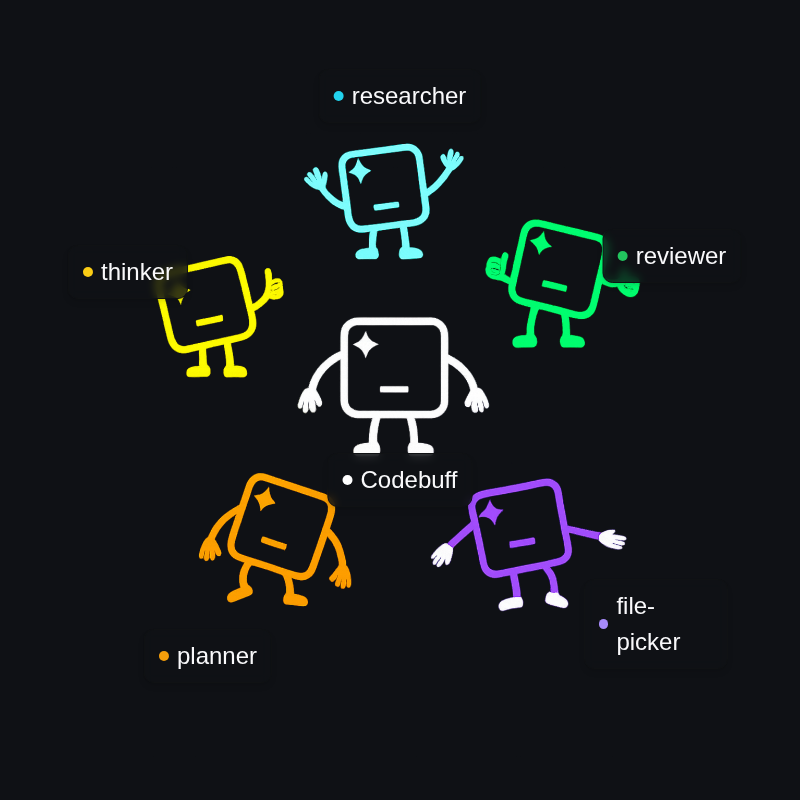
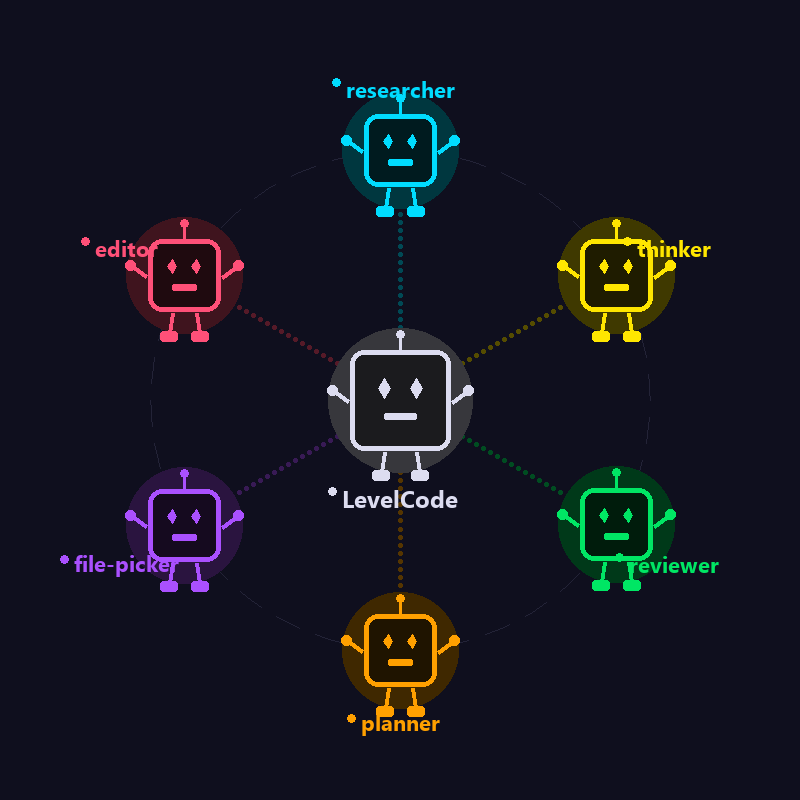
fix: replace old branding in multi-agents image with LevelCode
Replace the multi-agents.png asset that still had old branding as center
label with a regenerated version branded as "LevelCode". Includes the
Python generator script for future updates.

diff --git a/assets/generate-multi-agents.py b/assets/generate-multi-agents.py
@@ -1,0 +1,192 @@
+"""Generate multi-agents.png for LevelCode README."""
+
+from PIL import Image, ImageDraw, ImageFont
+import math
+import os
+
+WIDTH, HEIGHT = 800, 800
+BG_COLOR = (15, 15, 30)
+CENTER = (WIDTH // 2, HEIGHT // 2)
+ORBIT_RADIUS = 250
+
+# Agent definitions matching the original: (name, color_rgb)
+AGENTS = [
+    ("researcher", (0, 220, 255)),
+    ("thinker", (255, 230, 0)),
+    ("reviewer", (0, 230, 100)),
+    ("planner", (255, 160, 0)),
+    ("file-picker", (170, 80, 255)),
+    ("editor", (255, 80, 120)),
+]
+
+
+def load_font(size, bold=False):
+    candidates = (
+        ["C:/Windows/Fonts/segoeuib.ttf", "C:/Windows/Fonts/arialbd.ttf"]
+        if bold
+        else ["C:/Windows/Fonts/segoeui.ttf", "C:/Windows/Fonts/arial.ttf"]
+    )
+    for p in candidates:
+        if os.path.exists(p):
+            return ImageFont.truetype(p, size)
+    return ImageFont.load_default()
+
+
+def draw_soft_glow(draw, cx, cy, radius, color, intensity=20, layers=5):
+    """Draw a subtle soft glow behind a node."""
+    for i in range(layers, 0, -1):
+        r = radius + i * 4
+        alpha = int(intensity * (1 - i / (layers + 1)))
+        c = (color[0] // 4, color[1] // 4, color[2] // 4)
+        draw.ellipse([cx - r, cy - r, cx + r, cy + r], fill=c)
+
+
+def draw_robot(draw, cx, cy, size, color):
+    """Draw a cute minimalist robot character matching the original style."""
+    # Head - rounded rectangle with thick border
+    pad = 4
+    x1, y1 = cx - size, cy - size
+    x2, y2 = cx + size, cy + size
+    # Fill (dark tinted)
+    fill = (color[0] // 8, color[1] // 8, color[2] // 8)
+    draw.rounded_rectangle([x1, y1, x2, y2], radius=14, fill=fill, outline=color, width=5)
+
+    # Sparkle eye (4-point star) - left
+    eye_y = cy - size // 4
+    eo = size // 3  # eye offset
+    es = size // 5  # eye sparkle size
+    for offset in [-eo, eo]:
+        ex = cx + offset
+        draw.polygon(
+            [(ex, eye_y - es), (ex + es * 0.6, eye_y), (ex, eye_y + es), (ex - es * 0.6, eye_y)],
+            fill=color,
+        )
+
+    # Mouth - simple horizontal bar
+    my = cy + size // 3
+    mw = size // 3
+    draw.rounded_rectangle(
+        [cx - mw, my - 3, cx + mw, my + 3], radius=2, fill=color
+    )
+
+    # Antenna
+    at = y1 - 16
+    draw.line([(cx, y1), (cx, at)], fill=color, width=3)
+    draw.ellipse([cx - 4, at - 4, cx + 4, at + 4], fill=color)
+
+    # Arms - short angled lines
+    arm_y = cy + 2
+    al = 18
+    draw.line([(x1 - 2, arm_y), (x1 - al, arm_y - 12)], fill=color, width=4)
+    draw.line([(x2 + 2, arm_y), (x2 + al, arm_y - 12)], fill=color, width=4)
+    # Hands (small circles)
+    draw.ellipse([x1 - al - 5, arm_y - 17, x1 - al + 5, arm_y - 7], fill=color)
+    draw.ellipse([x2 + al - 5, arm_y - 17, x2 + al + 5, arm_y - 7], fill=color)
+
+    # Legs
+    ly = y2 + 2
+    ll = 20
+    sp = size // 3
+    draw.line([(cx - sp, ly), (cx - sp - 3, ly + ll)], fill=color, width=4)
+    draw.line([(cx + sp, ly), (cx + sp + 3, ly + ll)], fill=color, width=4)
+    # Feet
+    draw.rounded_rectangle(
+        [cx - sp - 12, ly + ll - 2, cx - sp + 5, ly + ll + 8], radius=3, fill=color
+    )
+    draw.rounded_rectangle(
+        [cx + sp - 5, ly + ll - 2, cx + sp + 12, ly + ll + 8], radius=3, fill=color
+    )
+
+
+def draw_dotted_line(draw, x1, y1, x2, y2, color, gap=8):
+    """Draw a dotted connection line."""
+    dist = math.sqrt((x2 - x1) ** 2 + (y2 - y1) ** 2)
+    dots = int(dist / gap)
+    for i in range(dots):
+        t = i / dots
+        # Fade: stronger near center, lighter near edges
+        if t < 0.25 or t > 0.75:
+            continue
+        x = x1 + (x2 - x1) * t
+        y = y1 + (y2 - y1) * t
+        r = 2
+        draw.ellipse([x - r, y - r, x + r, y + r], fill=color)
+
+
+def main():
+    img = Image.new("RGB", (WIDTH, HEIGHT), BG_COLOR)
+    draw = ImageDraw.Draw(img)
+
+    label_font = load_font(22, bold=True)
+    center_font = load_font(24, bold=True)
+
+    # Calculate positions
+    positions = []
+    for i in range(len(AGENTS)):
+        angle = (2 * math.pi * i / len(AGENTS)) - math.pi / 2
+        ax = CENTER[0] + int(ORBIT_RADIUS * math.cos(angle))
+        ay = CENTER[1] + int(ORBIT_RADIUS * math.sin(angle))
+        positions.append((ax, ay))
+
+    # Draw subtle orbit ring (dashed)
+    segs = 180
+    for i in range(segs):
+        if i % 5 < 2:
+            continue
+        a1 = 2 * math.pi * i / segs
+        a2 = 2 * math.pi * (i + 1) / segs
+        sx = CENTER[0] + int(ORBIT_RADIUS * math.cos(a1))
+        sy = CENTER[1] + int(ORBIT_RADIUS * math.sin(a1))
+        ex = CENTER[0] + int(ORBIT_RADIUS * math.cos(a2))
+        ey = CENTER[1] + int(ORBIT_RADIUS * math.sin(a2))
+        draw.line([(sx, sy), (ex, ey)], fill=(35, 35, 55), width=1)
+
+    # Draw connection lines from center to each agent
+    for i, (ax, ay) in enumerate(positions):
+        color = AGENTS[i][1]
+        faded = (color[0] // 3, color[1] // 3, color[2] // 3)
+        draw_dotted_line(draw, CENTER[0], CENTER[1], ax, ay, faded)
+
+    # Draw center: LevelCode orchestrator
+    center_color = (220, 220, 240)
+    draw_soft_glow(draw, CENTER[0], CENTER[1], 52, center_color, intensity=15)
+    draw_robot(draw, CENTER[0], CENTER[1], 50, center_color)
+
+    # Center label below
+    txt = "LevelCode"
+    bbox = draw.textbbox((0, 0), txt, font=center_font)
+    tw = bbox[2] - bbox[0]
+    lx = CENTER[0] - tw // 2
+    ly = CENTER[1] + 82
+    # Colored dot
+    draw.ellipse([lx - 14, ly + 5, lx - 6, ly + 13], fill=center_color)
+    draw.text((lx, ly), txt, fill=center_color, font=center_font)
+
+    # Draw each agent
+    for i, (name, color) in enumerate(AGENTS):
+        ax, ay = positions[i]
+        draw_soft_glow(draw, ax, ay, 38, color, intensity=12)
+        draw_robot(draw, ax, ay, 36, color)
+
+        # Label positioning - push outward from center
+        angle = math.atan2(ay - CENTER[1], ax - CENTER[0])
+        bbox = draw.textbbox((0, 0), name, font=label_font)
+        tw = bbox[2] - bbox[0]
+        th = bbox[3] - bbox[1]
+
+        # Place label further out along the angle
+        label_dist = 68
+        lx = ax + int(label_dist * math.cos(angle)) - tw // 2
+        ly = ay + int(label_dist * math.sin(angle)) - th // 2
+
+        # Dot + text
+        draw.ellipse([lx - 14, ly + th // 2 - 4, lx - 6, ly + th // 2 + 4], fill=color)
+        draw.text((lx, ly), name, fill=color, font=label_font)
+
+    out = os.path.join(os.path.dirname(os.path.abspath(__file__)), "multi-agents.png")
+    img.save(out, "PNG")
+    print(f"Saved: {out}")
+
+
+if __name__ == "__main__":
+    main()
